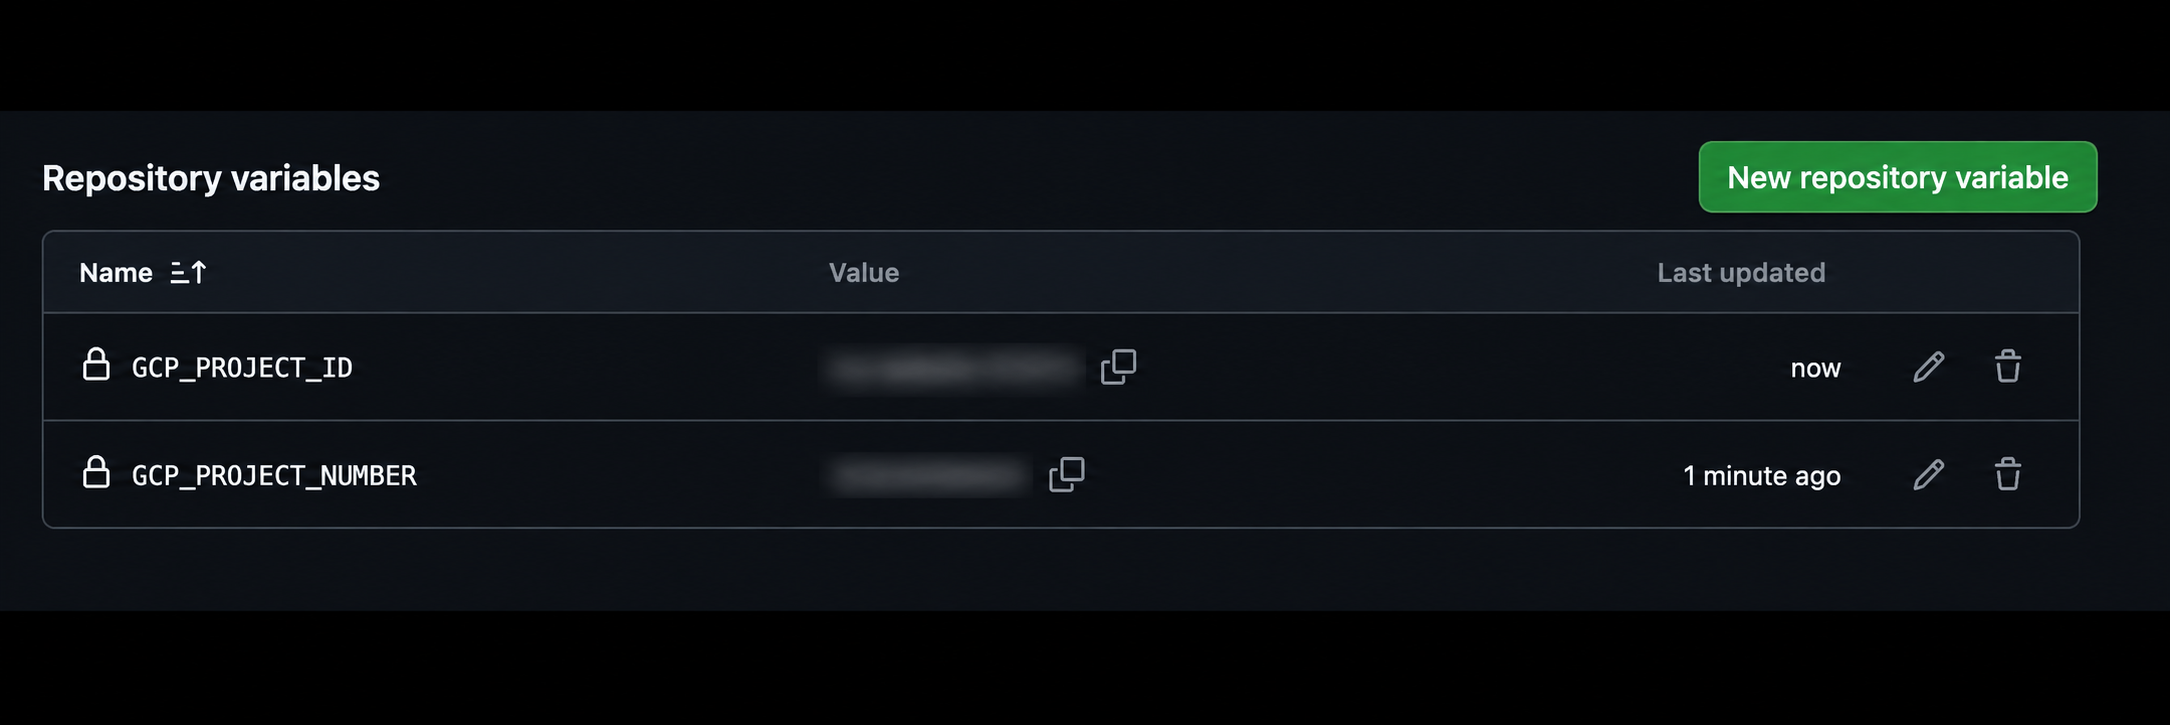
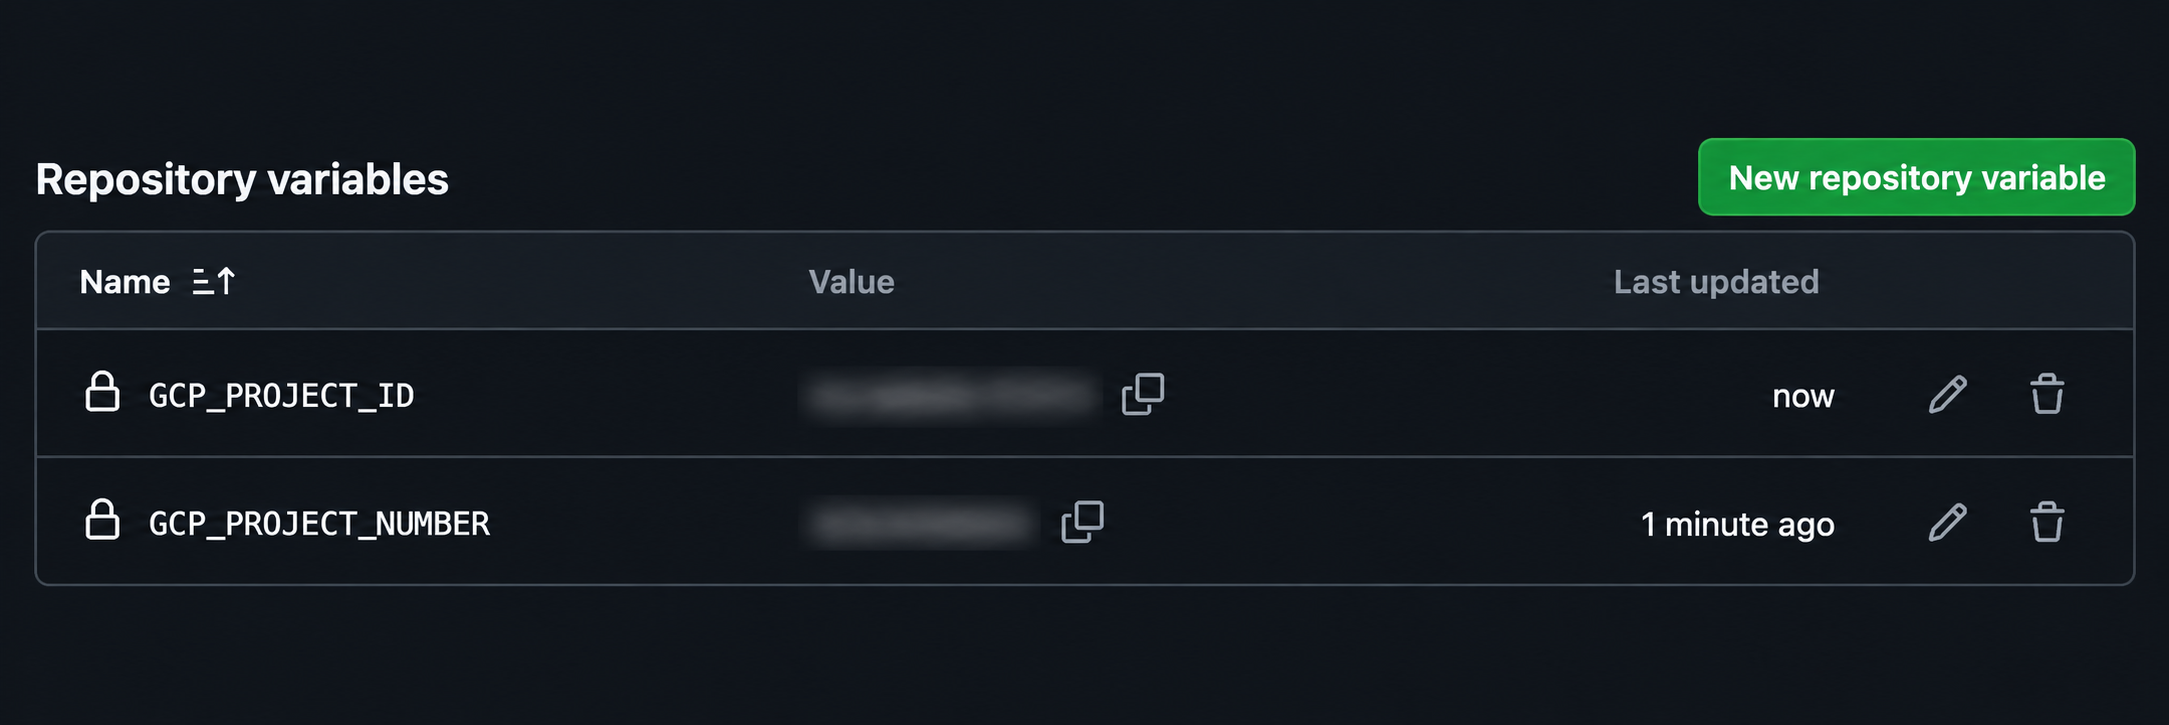
Update page content

diff --git a/website/index.html b/website/index.html
@@ -3,12 +3,17 @@
   <head>
     <meta charset="utf-8">
     <meta name="viewport" content="width=device-width, initial-scale=1">
-    <title>My website - v1.0.0</title>
+    <title>My website - v1.0.1</title>
   </head>
   <body data-release="__DEPLOY_SHA__">
     <main>
       <h1>Hello from Google Cloud!</h1>
       <p>This static website is hosted in Cloud Storage and served through Cloud CDN.</p>
+      <p>
+        <img src="https://media.giphy.com/media/CF76UXsZXRZle/giphy.gif"
+             alt="Gandalf from The Lord of the Rings" width="245" height="140">
+      </p>
+      <p><a href="https://giphy.com/gifs/the-lord-of-rings-fellowship-ring-gandalf-CF76UXsZXRZle">GIF via GIPHY</a></p>
     </main>
   </body>
 </html>

diff --git a/README.md b/README.md
@@ -114,6 +114,14 @@ After bootstrap, allow up to five minutes for IAM permissions to propagate.
 2. Run **website** on `develop` to publish the HTML.
 3. Once these files are on `main`, repeat **iac → apply**, then **website**, on `main` for production.
 
+![Successful IaC workflow](docs/images/iac-first-run.png)
+
+![Terraform apply outputs with IPs and project references blurred](docs/images/iac-first-run-outputs.png)
+
+![Successful website deployment](docs/images/website-first-run.png)
+
+![Deployed website with the IP address blurred](docs/images/website-preview.png)
+
 The first apply imports the bootstrap resources and creates the hosting stack and website deployment accounts. Later website changes deploy automatically.
 
 ## Next implementation steps
